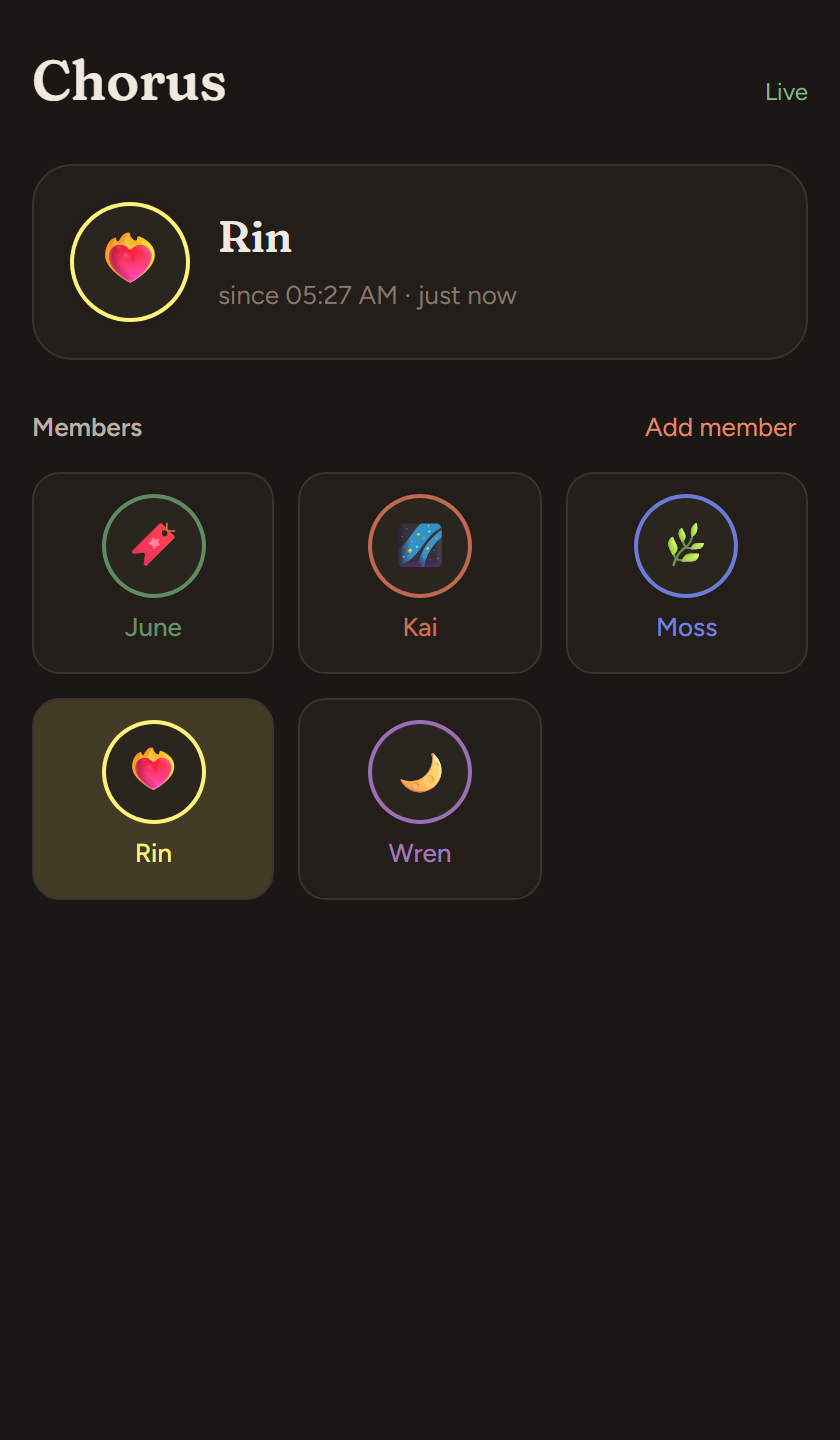
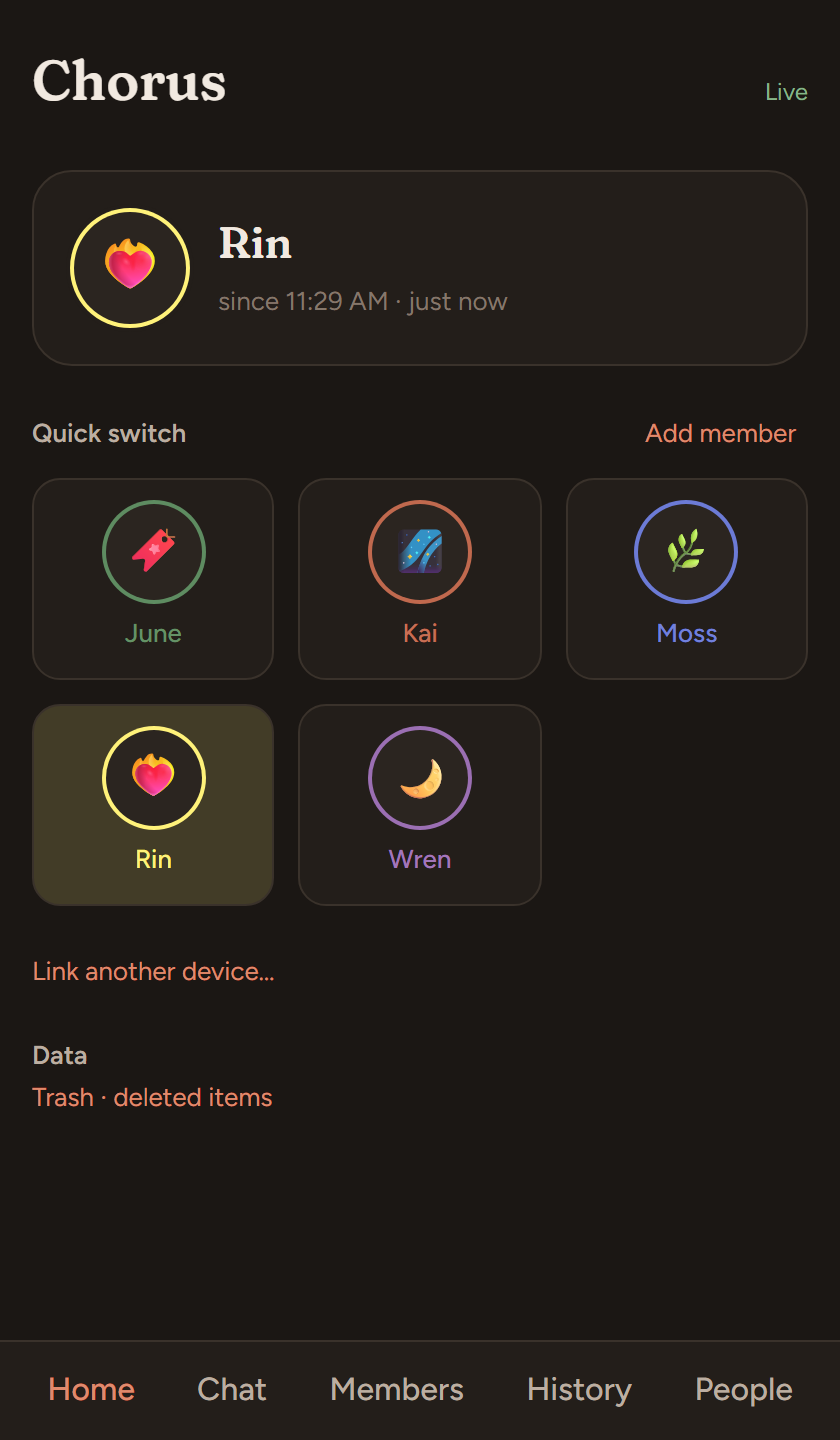
docs: disclosure card, fresh screenshots and a current README; toast fits one line
Card generated with Disclosure Studio (anthropic/claude-opus-5.5,
openai/gpt-6-sol), per the house standard. README status and a 'Running it'
section. The undo toast no longer wraps short labels at phone width.

diff --git a/web/src/lib/ui/UndoToast.svelte b/web/src/lib/ui/UndoToast.svelte
@@ -15,6 +15,9 @@
     left: 50%;
     bottom: calc(76px + env(safe-area-inset-bottom));
     transform: translateX(-50%);
+    /* left: 50% would cap an auto width at half the screen and wrap short labels */
+    width: max-content;
+    max-width: calc(100vw - 32px);
     z-index: 20;
     display: flex;
     gap: var(--s-4);

diff --git a/README.md b/README.md
@@ -4,7 +4,11 @@
 
 A cozy, local-first home for plural systems: chat as your members, keep journals, switch in one tap, and share who's around on your terms.
 
-> **Status:** specification phase. No code yet — see [PROGRESS.md](PROGRESS.md).
+> **Status:** in active development. The server, sync and web app work end to end (members,
+> switching, chat, stage mode, follows with delayed/fuzzed switch notifications); the Android app
+> and its home-screen widget are being finished. See [PROGRESS.md](PROGRESS.md).
+
+<img src="assets/screenshot-web-light.png" alt="Chorus on the web: the home screen with who's fronting and quick switch" width="360">
 
 Chorus is a self-hosted PluralKit replacement that lives on your own server over Tailscale:
 
@@ -22,6 +26,20 @@ Chorus is a self-hosted PluralKit replacement that lives on your own server over
 - **Your data, readable** — plain SQL tables, documented views, CSV/JSONL/SQLite exports, a live
   event stream and webhooks.
 - **Offline-first** — the Android app and web app work without a connection and resync cleanly.
+
+## Running it
+
+Chorus runs on one Windows PC and is reached over Tailscale through Caddy
+([Operations](docs/OPS.md)).
+
+```powershell
+pwsh scripts/deploy.ps1            # build the server + web app into ~\selfhost\chorus
+pwsh scripts/deploy.ps1 -Android   # also publish the Android app for in-app updates
+~\selfhost\chorus\install.cmd      # once, as administrator: Windows service + Caddy site + first invite
+```
+
+For development: `cargo run -p chorus-server -- --dev serve` (port 5251) and, in `web/`,
+`npm run dev` (port 5252). `python scripts/verify.py` runs every check.
 
 ## Documentation
 

diff --git a/PROGRESS.md b/PROGRESS.md
@@ -146,7 +146,7 @@ Legend: `[x]` done · `[~]` in progress · `[ ]` to do · `[-]` dropped (say why
 ### M12 — Ship
 
 - [x] M12.1 Deploy scripts (NSSM service, Caddy snippet, ntfy)
-- [ ] M12.2 Disclosure card, screenshots, README, publish to GitHub
+- [~] M12.2 Disclosure card, screenshots, README, publish to GitHub — card (Disclosure Studio: claude-opus-5.5 + gpt-6-sol), fresh screenshots and README done; publishing waits for the owner
 - [~] M12.3 In-app APK updates + silent OTA (CLIENTS.md §5a) — server endpoints, deploy -Android, app updater (D-060) done; needs a device check
 
 ### Later (not v1)
